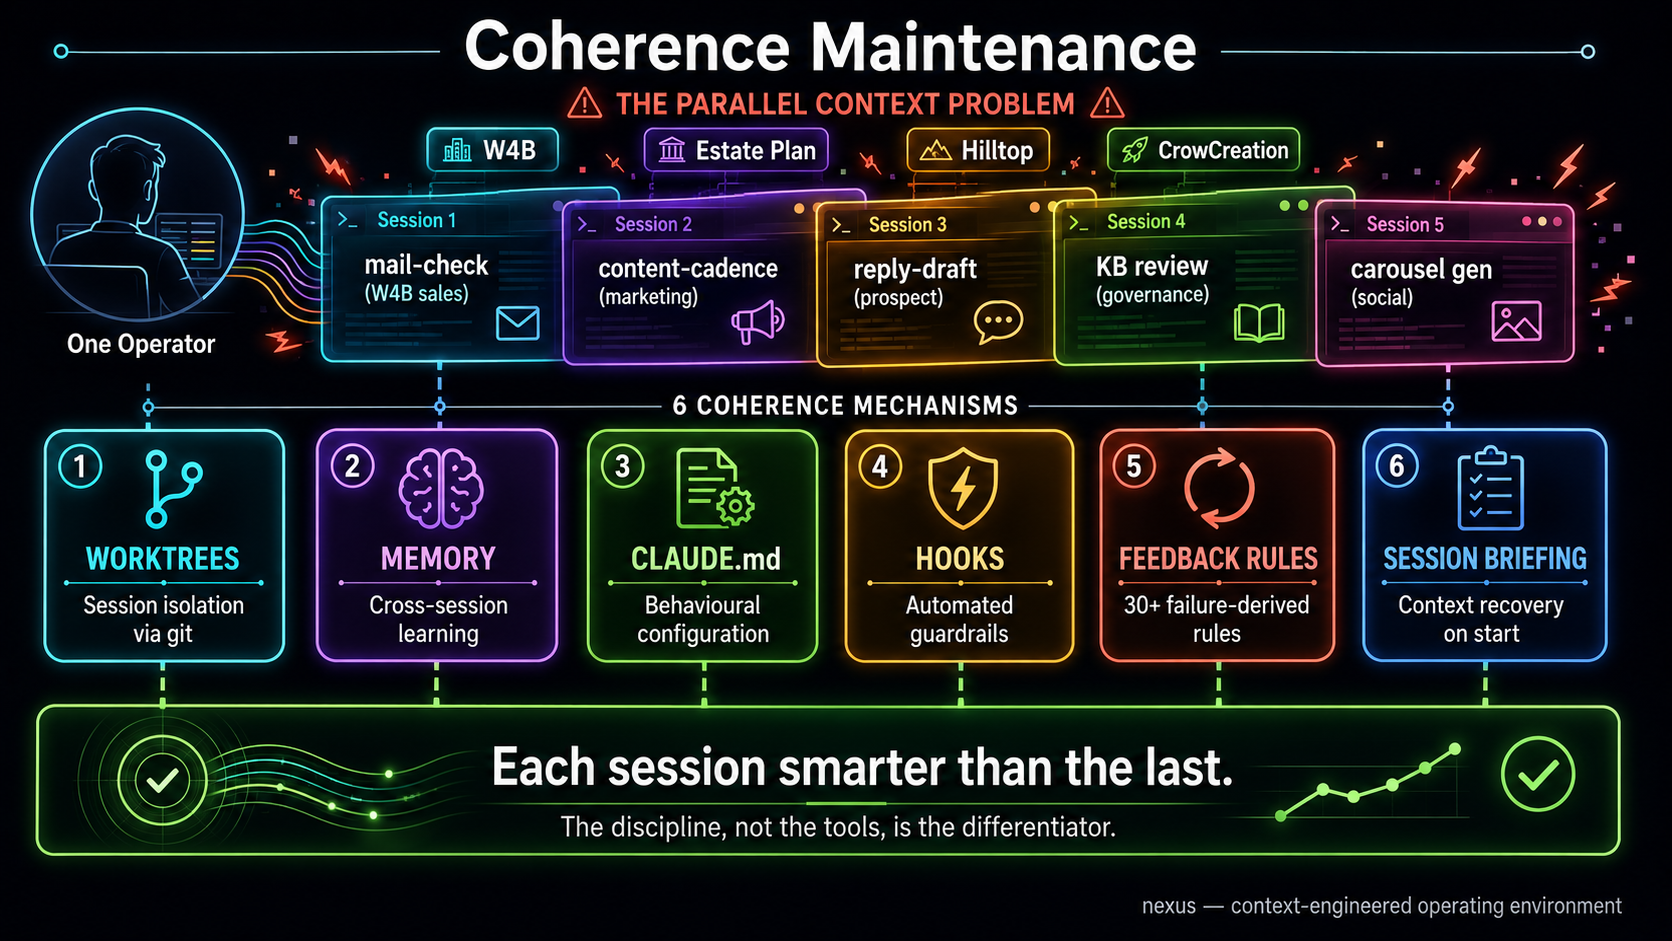
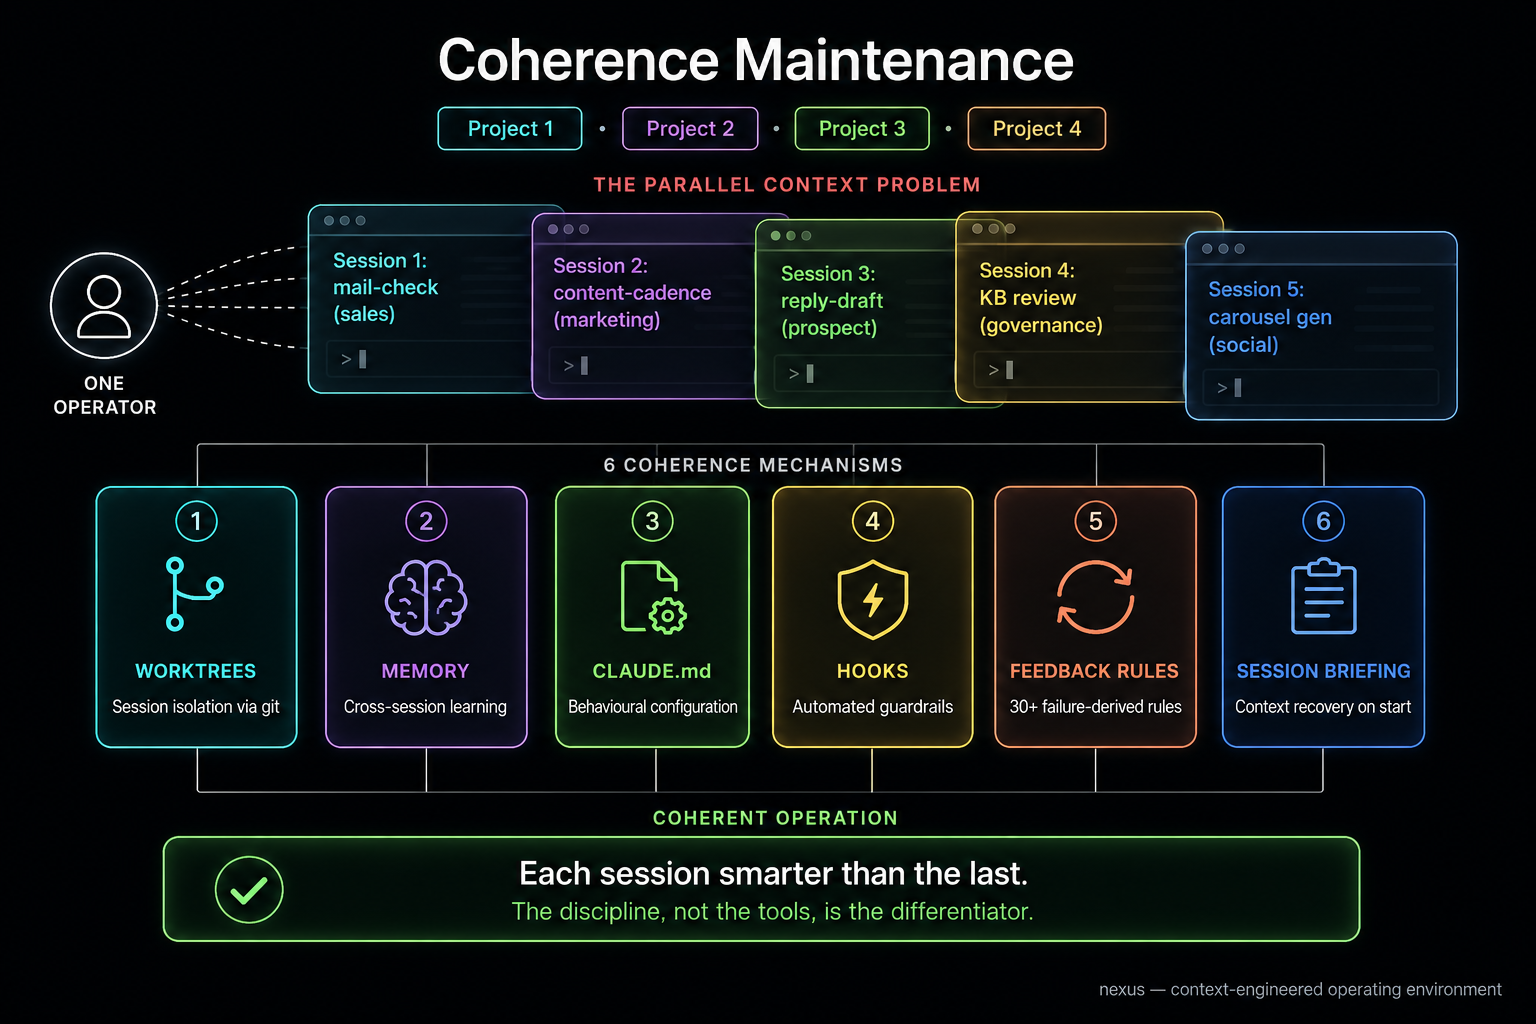
polish: replace em-dashes with hyphens, swap to agnostic diagrams
- Replace all em-dashes with hyphens throughout
- Swap coherence maintenance and operational discipline flywheel
  diagrams for stack-agnostic versions (no Nexus-specific references)

diff --git a/index.html b/index.html
@@ -3,7 +3,7 @@
 <head>
   <meta charset="UTF-8">
   <meta name="viewport" content="width=device-width, initial-scale=1.0">
-  <title>Nexus — The Coherence Problem</title>
+  <title>Nexus - The Coherence Problem</title>
   <meta name="description" content="A field guide to AI coordination failure. Why AI workflows break as they scale, and the operational patterns that fix them.">
   <style>
     * {
@@ -148,7 +148,7 @@
   </section>
 
   <footer>
-    nexus — context-engineered operating environment
+    nexus - context-engineered operating environment
   </footer>
 </body>
 </html>

diff --git a/README.md b/README.md
@@ -10,13 +10,13 @@ A field guide to AI coordination failure
 
 You set up an AI coding assistant on a Monday. By Wednesday you've built
 more in three days than you normally build in two weeks. You add a second
-project. You start running sessions in parallel — one doing research while
+project. You start running sessions in parallel - one doing research while
 another writes code. You connect a few automations. Everything accelerates.
 
 Around week three, something shifts. Your AI suggests building a feature
 you shipped last Tuesday. You find two automations doing overlapping work
 because neither knew about the other. A session in the morning produces
-a recommendation based on data that changed by afternoon — but the
+a recommendation based on data that changed by afternoon - but the
 afternoon session doesn't know that, and acts on the stale version anyway.
 
 You fix these individually. They feel like one-off mistakes. You add more
@@ -76,7 +76,7 @@ conditions for AI coordination failure.
 
 There is a specific property that working systems have and degrading
 systems lose. It doesn't have a standard name in the AI tooling
-discourse, so it gets described indirectly — "context issues," "my AI
+discourse, so it gets described indirectly - "context issues," "my AI
 forgot," "things got out of sync." These descriptions are accurate but
 imprecise. They sound like different problems. They are the same problem.
 
@@ -92,7 +92,7 @@ can delegate work without checking whether the delegate is operating on
 last week's version of reality.
 
 This sounds like table stakes. It is, for a single session. One person,
-one AI, one conversation — coherence is free. The model holds state for
+one AI, one conversation - coherence is free. The model holds state for
 the duration. Instructions persist. Context is shared. Everything works.
 
 The trouble starts when you add a second session. Or a second day. Or
@@ -106,14 +106,14 @@ coherence degrades faster than capability improves.
 
 You don't notice at first because each session is still good. The
 model is still smart. The tools still work. The degradation is between
-components, not within them. It shows up as subtle wrongness — a
+components, not within them. It shows up as subtle wrongness - a
 recommendation that's slightly off because it's based on information
 that was true two days ago. An automation that runs correctly on
 incorrect inputs. A session that does excellent work toward a goal
 you quietly abandoned in a different session last week.
 
-And the instinct to fix it by adding more — more tools, more
-integrations, more automation layers — makes it worse. Each new
+And the instinct to fix it by adding more - more tools, more
+integrations, more automation layers - makes it worse. Each new
 component adds capability AND adds another surface where state can
 go stale, instructions can go unread, and context can fragment. The
 coordination load compounds while the capability grows linearly.
@@ -193,7 +193,7 @@ encode lessons durably.
 ---
 
 <p align="center">
-  <img src="./images/coherence-maintenance.png" alt="Coherence Maintenance — the parallel context problem and six coherence mechanisms" width="100%" />
+  <img src="./images/coherence-maintenance.png" alt="Coherence Maintenance - the parallel context problem and six coherence mechanisms" width="100%" />
 </p>
 
 ## V. Why discipline beats tooling
@@ -300,7 +300,7 @@ them aren't.
 ---
 
 <p align="center">
-  <img src="./images/four-layer-model.png" alt="The 4-Layer Nexus Model — Intent, Approval, Transport, Substrate" width="100%" />
+  <img src="./images/four-layer-model.png" alt="The 4-Layer Nexus Model - Intent, Approval, Transport, Substrate" width="100%" />
 </p>
 
 ## VII. The smallest unit of delegatable work
@@ -365,7 +365,7 @@ tell the difference.
 ---
 
 <p align="center">
-  <img src="./images/intent-packet-lifecycle.png" alt="Intent Packet Lifecycle — Capture, Manifest, Gate, Dispatch, Execute, Aggregate, Close-out" width="100%" />
+  <img src="./images/intent-packet-lifecycle.png" alt="Intent Packet Lifecycle - Capture, Manifest, Gate, Dispatch, Execute, Aggregate, Close-out" width="100%" />
 </p>
 
 ## VIII. The flywheel (or: how discipline compounds)
@@ -425,7 +425,7 @@ Discipline reduces surface area. Capability expands it.
 ---
 
 <p align="center">
-  <img src="./images/operational-discipline-flywheel.png" alt="Operational Discipline Flywheel — Failure, Record, Pattern, Rule, Prevention, Harder Problems" width="100%" />
+  <img src="./images/operational-discipline-flywheel.png" alt="Operational Discipline Flywheel - Failure, Record, Pattern, Rule, Prevention, Harder Problems" width="100%" />
 </p>
 
 ## IX. What this is and what it isn't

diff --git a/patterns/failure-log.md b/patterns/failure-log.md
@@ -8,13 +8,13 @@ Don't filter. Don't fix. Just record.
 
 The temptation is to skip entries that feel minor or embarrassing. Resist
 it. The minor failures are where patterns hide. A wrong API call, a
-stale recommendation, a wasted automation run — each one alone is
+stale recommendation, a wasted automation run - each one alone is
 forgettable. Three of them together are a signal.
 
 Review the log weekly. Not to fix individual entries, but to look for
 clusters. After a month, you'll see the same root cause appearing in
 different disguises. After three months, the clusters will tell you
-exactly where your system is weak — not where you think it's weak,
+exactly where your system is weak - not where you think it's weak,
 but where it actually fails.
 
 The log is more valuable than any individual fix it produces. A fix
@@ -24,7 +24,7 @@ solves one problem. The log reveals which problems are structural.
 
 Create a file called `failure-log.md`. Add a table or list with columns
 for date, description, root cause, and category. Use whatever categories
-emerge naturally — common ones include state staleness, context loss,
+emerge naturally - common ones include state staleness, context loss,
 instruction decay, infrastructure duplication, and feedback loss.
 
 The first twenty entries will feel random. Keep going.

diff --git a/patterns/session-pre-flight.md b/patterns/session-pre-flight.md
@@ -4,7 +4,7 @@ At the start of every AI session, verify three things before doing
 any work:
 
 **What context you're in.** Which branch, which project, which
-workspace. Not what you remember from last time — what's true right
+workspace. Not what you remember from last time - what's true right
 now. Parallel sessions, overnight automations, and other operators
 can change the context between sessions without you noticing.
 
@@ -15,9 +15,9 @@ one. If you skip this step, you'll build on assumptions that may no
 longer hold.
 
 **Whether previous assumptions are still valid.** The prospect you
-were drafting an email to — is the deal still open? The file you
-were modifying — has someone else changed it? The API endpoint you
-were calling — does it still return the same format? Stale
+were drafting an email to - is the deal still open? The file you
+were modifying - has someone else changed it? The API endpoint you
+were calling - does it still return the same format? Stale
 assumptions are invisible until they produce wrong outputs.
 
 ## Why this prevents the worst failures

diff --git a/patterns/three-occurrence-rule.md b/patterns/three-occurrence-rule.md
@@ -6,7 +6,7 @@ error and start treating it as a system bug.
 One occurrence is an accident. Two is a coincidence. Three means the
 conditions that produce this failure are structural. The environment
 makes it likely. No amount of "being more careful" will prevent the
-fourth occurrence, because the problem isn't carelessness — it's that
+fourth occurrence, because the problem isn't carelessness - it's that
 your system creates the conditions for this failure repeatedly.
 
 The response to three occurrences is always the same: write a rule,
@@ -14,7 +14,7 @@ a check, or a gate that prevents the fourth. If you can't prevent it
 automatically, make it visible so you catch it faster next time.
 
 This rule does two things. First, it gives you permission to ignore
-one-off failures without guilt — they genuinely might not recur.
+one-off failures without guilt - they genuinely might not recur.
 Second, it creates a hard trigger for systemic fixes, so structural
 problems can't hide behind the excuse of "it was just a mistake."
 

diff --git a/patterns/live-state-check.md b/patterns/live-state-check.md
@@ -12,7 +12,7 @@ moved last week. The API response that changed format. The deal
 that closed while you were drafting the follow-up email.
 
 The cost of checking is seconds. The cost of not checking is a
-plausible-looking output built on wrong foundations — and the
+plausible-looking output built on wrong foundations - and the
 debugging time to figure out why it's wrong, which is always longer
 than the check would have been.
 
@@ -25,7 +25,7 @@ before execution), making recommendations (verify the facts they're
 built on).
 
 For each one, add a single step: query the live source before acting.
-Not "check if you remember it being current" — actually query it.
+Not "check if you remember it being current" - actually query it.
 
 The rule is simple. Applying it consistently is the hard part. Build
 it into your session startup checklist or your AI's configuration so

diff --git a/templates/failure-log.md b/templates/failure-log.md
@@ -21,7 +21,7 @@ Append-only record of AI workflow failures. Review weekly for patterns.
 ## Weekly review notes
 
 <!-- Each week, scan the log for clusters. When the same root cause appears
-     3 times, it's a system bug — write a preventive rule. -->
+     3 times, it's a system bug - write a preventive rule. -->
 
 ### Week of YYYY-MM-DD
 
